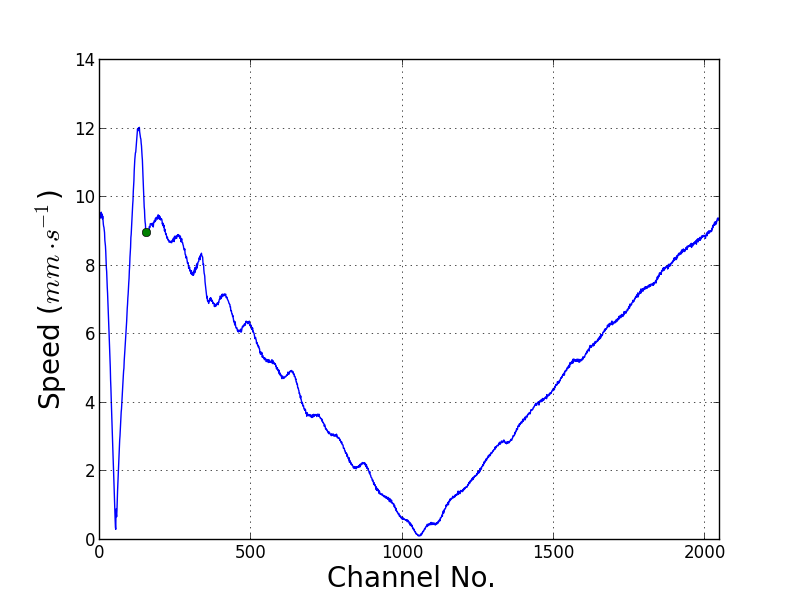
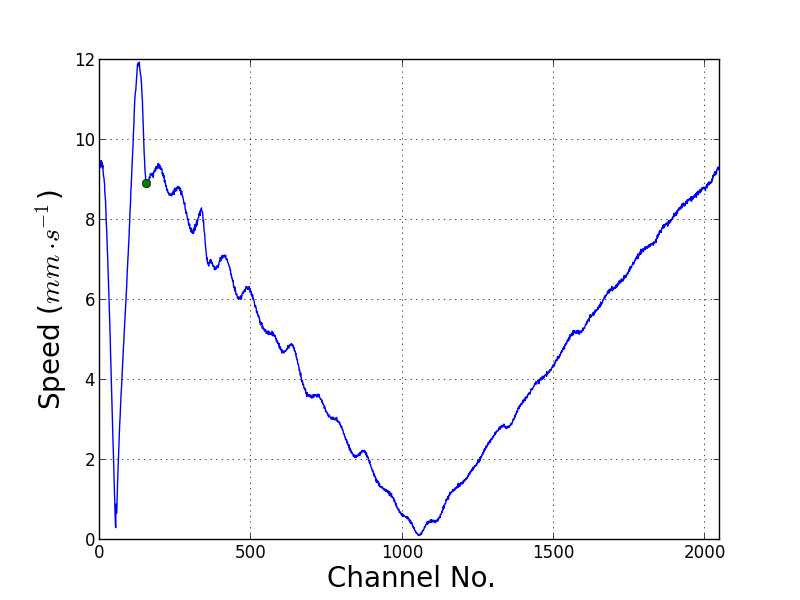
[mossbauer] result update

diff --git a/mossbauer/pos_cal/pos_cal.py b/mossbauer/pos_cal/pos_cal.py
@@ -1,3 +1,3 @@
-peaks_e = [-2.6563340903984221e-07, -1.607241361190653e-07, -5.6244609035188789e-08, 2.5133476707878322e-08, 1.3706987995970033e-07, 2.5237745328381529e-07]
-peaks_cov = [[9.022904873132489e-19, 6.3780417244750651e-19, 6.3780417239284996e-19, 6.3780417235027853e-19, 6.3780417229172112e-19, 6.3780417223140012e-19], [6.3780417244750651e-19, 1.0698539480632514e-18, 6.3780417233796866e-19, 6.3780417229539723e-19, 6.3780417223683982e-19, 6.3780417217651882e-19], [6.3780417239284996e-19, 6.3780417233796866e-19, 1.1197154512760363e-18, 6.3780417224074069e-19, 6.3780417218218327e-19, 6.3780417212186228e-19], [6.3780417235027853e-19, 6.3780417229539723e-19, 6.3780417224074069e-19, 1.3032047544475365e-18, 6.3780417213961184e-19, 6.3780417207929085e-19], [6.3780417229172112e-19, 6.3780417223683982e-19, 6.3780417218218327e-19, 6.3780417213961184e-19, 9.8248658936059218e-19, 6.3780417202073343e-19], [6.3780417223140012e-19, 6.3780417217651882e-19, 6.3780417212186228e-19, 6.3780417207929085e-19, 6.3780417202073343e-19, 1.175825189606936e-18]]
-peaks_s = [9.4988972376442153e-10, 1.0343374440013528e-09, 1.0581660792503396e-09, 1.1415799378263164e-09, 9.9120461528414609e-10, 1.0843547342115198e-09]
+peaks_e = [-2.6364424665194855e-07, -1.5952057363213879e-07, -5.5823428351557928e-08, 2.4945267827357595e-08, 1.3604344939618633e-07, 2.5048755645404856e-07]
+peaks_cov = [[2.1983221584338203e-16, 2.1957167582107732e-16, 2.1957167579990489e-16, 2.195716757834139e-16, 2.1957167576073038e-16, 2.1957167573736368e-16], [2.1957167582107732e-16, 2.1999727910214861e-16, 2.1957167577864538e-16, 2.1957167576215439e-16, 2.1957167573947087e-16, 2.1957167571610417e-16], [2.1957167579990489e-16, 2.1957167577864538e-16, 2.2004639659594906e-16, 2.1957167574098198e-16, 2.1957167571829844e-16, 2.1957167569493176e-16], [2.195716757834139e-16, 2.1957167576215439e-16, 2.1957167574098198e-16, 2.2022714808236592e-16, 2.1957167570180745e-16, 2.1957167567844075e-16], [2.1957167576073038e-16, 2.1957167573947087e-16, 2.1957167571829844e-16, 2.1957167570180745e-16, 2.1991121520283232e-16, 2.1957167565575722e-16], [2.1957167573736368e-16, 2.1957167571610417e-16, 2.1957167569493176e-16, 2.1957167567844075e-16, 2.1957167565575722e-16, 2.2010166901446856e-16]]
+peaks_s = [1.482673989261908e-08, 1.4832305252459869e-08, 1.4833960920669471e-08, 1.48400521590177e-08, 1.4829403737265782e-08, 1.4835823840099631e-08]

diff --git a/mossbauer/temp.py b/mossbauer/temp.py
@@ -10,7 +10,13 @@ __temp_re = re.compile("[^-]-(?P<t>[-0-9][0-9]*)c")
 E_0 = 14.4e3
 
 def get_temp(fname):
-    return int(__temp_re.search(fname).group('t'))
+    return int(__temp_re.search(fname).group('t')) + 273.15
+
+def get_peak(fname):
+    data = jlab.load_pyfile(fname)
+    for i, peak in enumerate(data.peaks):
+        if data.peaks_width[i][0] == data.peaks_width[i][0]:
+            return peak
 
 if __name__ == '__main__':
     import sys
@@ -20,21 +26,23 @@ if __name__ == '__main__':
     calib_file = inames[0][:-6] + 'calib.py'
     calib_file = 'pos_cal/' + jlab.load_pyfile(calib_file).calib + '_calib.py'
     calib.load(calib_file)
-    peaks = array(list(zip(*(jlab.load_pyfile(iname).peaks[0]
-                             for iname in inames))))
+    peaks = array(list(zip(*(get_peak(iname) for iname in inames))))
     diff = (peaks[0, 0] - peaks[0, 1])
     unc = sqrt(peaks[1, 1]**2 + peaks[1, 0]**2)
     diff_res = calib.diff(diff, unc)
     diff_res.a /= E_0
     diff_res.s /= E_0
+    print(jlab.a_pm_s([diff_res.a, diff_res.s]))
 
     temps = [get_temp(iname) for iname in inames]
     dT4 = temps[1]**4 - temps[0]**4
     dT4_s = (6 / sqrt(3)) * 4 * temps[1]**3
 
     theta3 = (3 * pi**4 * consts.k * dT4 / 5 / consts.c**2 /
-              consts.atomic_mass / 57 / diff_res.a)
+              consts.atomic_mass / 57 / diff_res.a / 2)
     theta = theta3**(1 / 3)
     theta_s = sqrt((diff_res.s / diff_res.a)**2 + (dT4_s / dT4)**2) / 3 * theta
-    jlab.save_pyfile(jlab.Ret('theta', 'theta_s',
-                              delta=diff_res.a, delta_s=diff_res.s), oname)
+    print(jlab.a_pm_s([theta, theta_s]))
+    print(theta / 470)
+    # jlab.save_pyfile(jlab.Ret('theta', 'theta_s',
+    #                           delta=diff_res.a, delta_s=diff_res.s), oname)

diff --git a/mossbauer/Fe2O3/02-14-Fe2O3_1_e.py b/mossbauer/Fe2O3/02-14-Fe2O3_1_e.py
@@ -1,3 +1,3 @@
+peaks_cov = [[9.1842162157790707e-17, 9.1164801037970049e-17, 9.1164801035792621e-17, 9.1164801034109956e-17, 9.1164801031830505e-17], [9.1164801037970049e-17, 9.1901068708260979e-17, 9.1164801033646648e-17, 9.1164801031963983e-17, 9.1164801029684545e-17], [9.1164801035792621e-17, 9.1164801033646648e-17, 9.1778653847652394e-17, 9.1164801029786554e-17, 9.1164801027507116e-17], [9.1164801034109956e-17, 9.1164801031963983e-17, 9.1164801029786554e-17, 9.4755477060042239e-17, 9.1164801025824439e-17], [9.1164801031830505e-17, 9.1164801029684545e-17, 9.1164801027507116e-17, 9.1164801025824439e-17, 9.1863557360080952e-17]]
 peaks_s = [9.583431648307964e-09, 9.5865045093746754e-09, 9.5801176322450437e-09, 9.734242500577138e-09, 9.5845478432777911e-09]
 peaks_e = [-3.8571257267607051e-07, -2.2082613164373921e-07, -5.3522545563421951e-08, 7.5765720039917627e-08, 2.5090727202928735e-07]
-peaks_cov = [[9.1842162157790707e-17, 9.1164801037970049e-17, 9.1164801035792621e-17, 9.1164801034109956e-17, 9.1164801031830505e-17], [9.1164801037970049e-17, 9.1901068708260979e-17, 9.1164801033646648e-17, 9.1164801031963983e-17, 9.1164801029684545e-17], [9.1164801035792621e-17, 9.1164801033646648e-17, 9.1778653847652394e-17, 9.1164801029786554e-17, 9.1164801027507116e-17], [9.1164801034109956e-17, 9.1164801031963983e-17, 9.1164801029786554e-17, 9.4755477060042239e-17, 9.1164801025824439e-17], [9.1164801031830505e-17, 9.1164801029684545e-17, 9.1164801027507116e-17, 9.1164801025824439e-17, 9.1863557360080952e-17]]

diff --git a/mossbauer/find_peak.py b/mossbauer/find_peak.py
@@ -3,7 +3,7 @@
 import jlab
 from pylab import *
 
-calib_res = jlab.load_pyfile('pos_cal_1/res_v.py')
+calib_res = jlab.load_pyfile('pos_cal/res_v.py')
 
 def smooth(data, w):
     l = len(data)
@@ -85,7 +85,7 @@ class FindIter(object):
     def __next__(self):
         return find_next(self.it, self.thresh_area, self.thresh_height)
 
-def find_width(index, data, hint=None, w=30):
+def find_width(index, data, w=30):
     a, s = smooth_diff(data, w)
     _w = w * 3
     a = a[_w:-_w]
@@ -122,11 +122,7 @@ def find_exact_pos(zero, index, diff, diff_s):
 def find_peak(iname, fig_name):
     index, data = array([(d[0], d[2]) for d in
                          jlab.load_pyfile(iname).data[calib_res.start:]]).T
-    try:
-        hint = jlab.load_pyfile(iname[:-3] + '_hint.py')
-    except:
-        hint = None
-    res = find_width(index, data, hint, 30)
+    res = find_width(index, data, 30)
 
     find_exact_pos_data = array([res.index, res.a, res.s])
     peaks = [find_exact_pos(res.index[z], *find_exact_pos_data[:, s:e])

diff --git a/mossbauer/Fe2O3/02-14-Fe2O3_2_e.py b/mossbauer/Fe2O3/02-14-Fe2O3_2_e.py
@@ -1,3 +1,3 @@
+peaks_s = [9.5710013467314187e-09, 9.5737888005444179e-09, 9.6092319615622534e-09, 9.5821385700048467e-09, 9.5756064856240107e-09]
 peaks_e = [-3.8558233865620219e-07, -2.1955482125848105e-07, -4.9939905403934722e-08, 7.5078336645963744e-08, 2.4911845818051449e-07]
 peaks_cov = [[9.1604066779134634e-17, 9.1164801037951807e-17, 9.1164801035744291e-17, 9.1164801034117203e-17, 9.11648010318521e-17], [9.1164801037951807e-17, 9.1657431997429734e-17, 9.1164801033583477e-17, 9.1164801031956378e-17, 9.1164801029691275e-17], [9.1164801035744291e-17, 9.1164801033583477e-17, 9.2337338891109539e-17, 9.1164801029748874e-17, 9.1164801027483758e-17], [9.1164801034117203e-17, 9.1164801031956378e-17, 9.1164801029748874e-17, 9.1817379574774522e-17, 9.1164801025856671e-17], [9.11648010318521e-17, 9.1164801029691275e-17, 9.1164801027483758e-17, 9.1164801025856671e-17, 9.1692239567524606e-17]]
-peaks_s = [9.5710013467314187e-09, 9.5737888005444179e-09, 9.6092319615622534e-09, 9.5821385700048467e-09, 9.5756064856240107e-09]

diff --git a/mossbauer/fix_extra_count.py b/mossbauer/fix_extra_count.py
@@ -11,8 +11,10 @@ def extra_count(fname):
 if __name__ == '__main__':
     import sys
     rate_a, unc_a = zip(*(extra_count(f) for f in sys.argv[2:]))
-    weight = 1 / array(unc_a)**2
-    total_weight = sum(weight)
-    extra_rate = sum(rate_a * weight) / total_weight
-    extra_unc = len(weight) / total_weight
+    extra_rate = mean(rate_a)
+    extra_unc = sqrt(mean(array(unc_a)**2))
+    # weight = 1 / array(unc_a)**2
+    # total_weight = sum(weight)
+    # extra_rate = sum(rate_a * weight) / total_weight
+    # extra_unc = len(weight) / total_weight
     jlab.save_pyfile(jlab.Ret('extra_rate', 'extra_unc'), sys.argv[1])

diff --git a/mossbauer/pos_cal/res_v.py b/mossbauer/pos_cal/res_v.py
@@ -1,4 +1,4 @@
-cov = [[2.7644184163131148e-10, -2.2673946227569438e-13], [-2.2673946227569438e-13, 2.0845536031182576e-16]]
-s = [1.6626540278461767e-05, 1.4437983249464786e-08]
-a = [-0.010955795663765878, 1.0191035939306345e-05]
 start = 156
+a = [-0.010873754565311495, 1.0114721647902211e-05]
+cov = [[9.5168393456048685e-08, -8.8495295144578721e-11], [-8.8495295144578734e-11, 8.23155384491368e-14]]
+s = [0.00030849374946025841, 2.8690684629185273e-07]

diff --git a/mossbauer/FeC2O4/02-26-FeC2O4_e.py b/mossbauer/FeC2O4/02-26-FeC2O4_e.py
@@ -1,3 +1,3 @@
-peaks_cov = [[8.8599700269839504e-17, 8.7493308909344185e-17], [8.7493308909344185e-17, 8.9988885846062775e-17]]
-peaks_e = [-2.0085266107936081e-09, 8.3939623172026044e-08]
 peaks_s = [9.4127413791009625e-09, 9.4862471950747093e-09]
+peaks_e = [-2.0085266107936081e-09, 8.3939623172026044e-08]
+peaks_cov = [[8.8599700269839504e-17, 8.7493308909344185e-17], [8.7493308909344185e-17, 8.9988885846062775e-17]]

diff --git a/mossbauer/FeSO4_Fe2SO4_3/02-15-FeSO4_e.py b/mossbauer/FeSO4_Fe2SO4_3/02-15-FeSO4_e.py
@@ -1,3 +1,3 @@
-peaks_s = [9.6467000303358818e-09, 1.0125451293173637e-08]
-peaks_cov = [[9.3058821475282299e-17, 9.1164801028058222e-17], [9.1164801028058222e-17, 1.0252476389043167e-16]]
 peaks_e = [-3.4595040536783373e-08, 1.8963459050108432e-07]
+peaks_cov = [[9.3058821475282299e-17, 9.1164801028058222e-17], [9.1164801028058222e-17, 1.0252476389043167e-16]]
+peaks_s = [9.6467000303358818e-09, 1.0125451293173637e-08]

diff --git a/mossbauer/FeSO4_Fe2SO4_3/02-19-FeSO4_e.py b/mossbauer/FeSO4_Fe2SO4_3/02-19-FeSO4_e.py
@@ -1,3 +1,3 @@
-peaks_s = [9.548679233001208e-09, 9.5487387452615325e-09]
-peaks_cov = [[9.1177275094748525e-17, 9.1164801028840463e-17], [9.1164801028840463e-17, 9.117841162525879e-17]]
 peaks_e = [-3.0610719782263509e-08, 1.2554633110425847e-07]
+peaks_cov = [[9.1177275094748525e-17, 9.1164801028840463e-17], [9.1164801028840463e-17, 9.117841162525879e-17]]
+peaks_s = [9.548679233001208e-09, 9.5487387452615325e-09]

diff --git a/mossbauer/FeC2O4/02-28-FeC2O4_e.py b/mossbauer/FeC2O4/02-28-FeC2O4_e.py
@@ -1,3 +1,3 @@
 peaks_e = [3.457205911805694e-10, 8.593821413379438e-08]
-peaks_s = [9.354937390358482e-09, 9.3549408562977729e-09]
 peaks_cov = [[8.7514853577527179e-17, 8.7493308909324784e-17], [8.7493308909324784e-17, 8.7514918424829322e-17]]
+peaks_s = [9.354937390358482e-09, 9.3549408562977729e-09]

diff --git a/mossbauer/FeSO4_Fe2SO4_3/02-15-Fe2SO4_3_e.py b/mossbauer/FeSO4_Fe2SO4_3/02-15-Fe2SO4_3_e.py
@@ -1,3 +1,3 @@
-peaks_cov = [[9.4486986383169898e-17]]
-peaks_s = [9.7204416763421768e-09]
 peaks_e = [6.7217040251043994e-09]
+peaks_s = [9.7204416763421768e-09]
+peaks_cov = [[9.4486986383169898e-17]]
